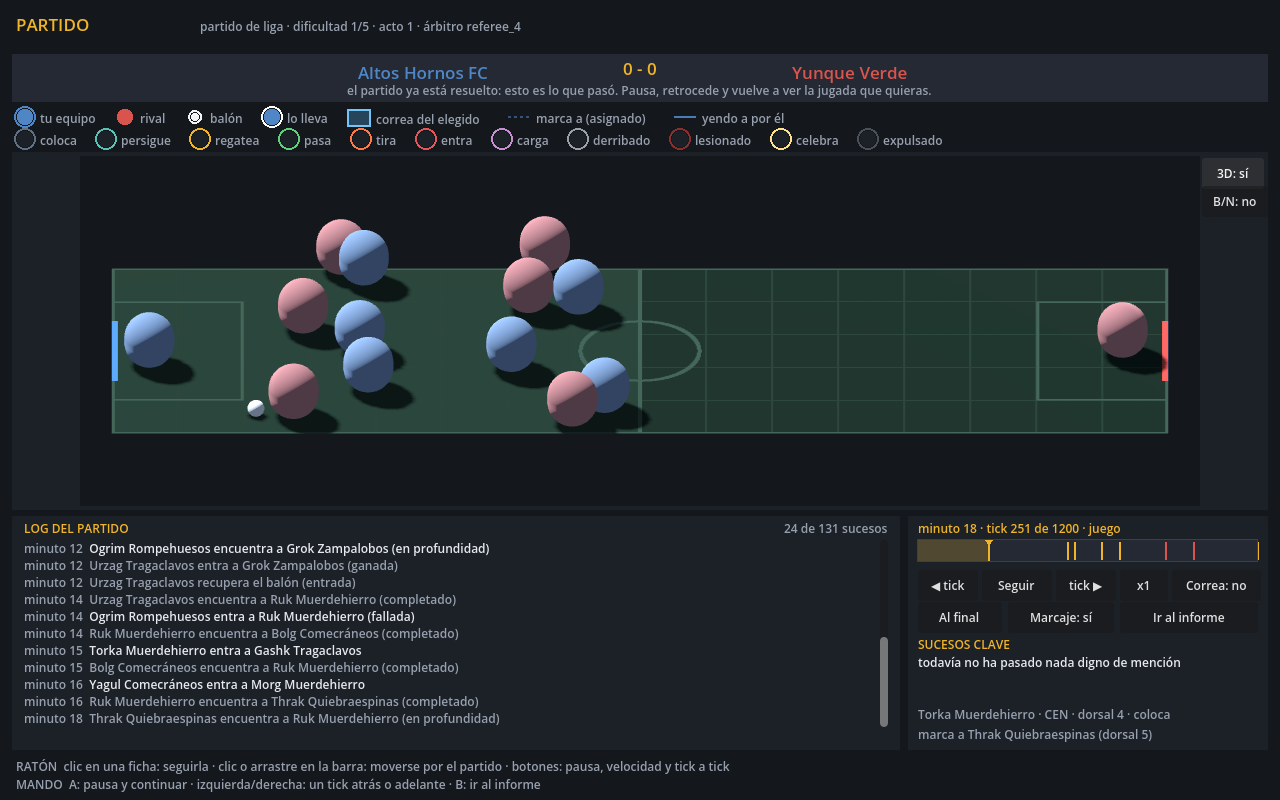
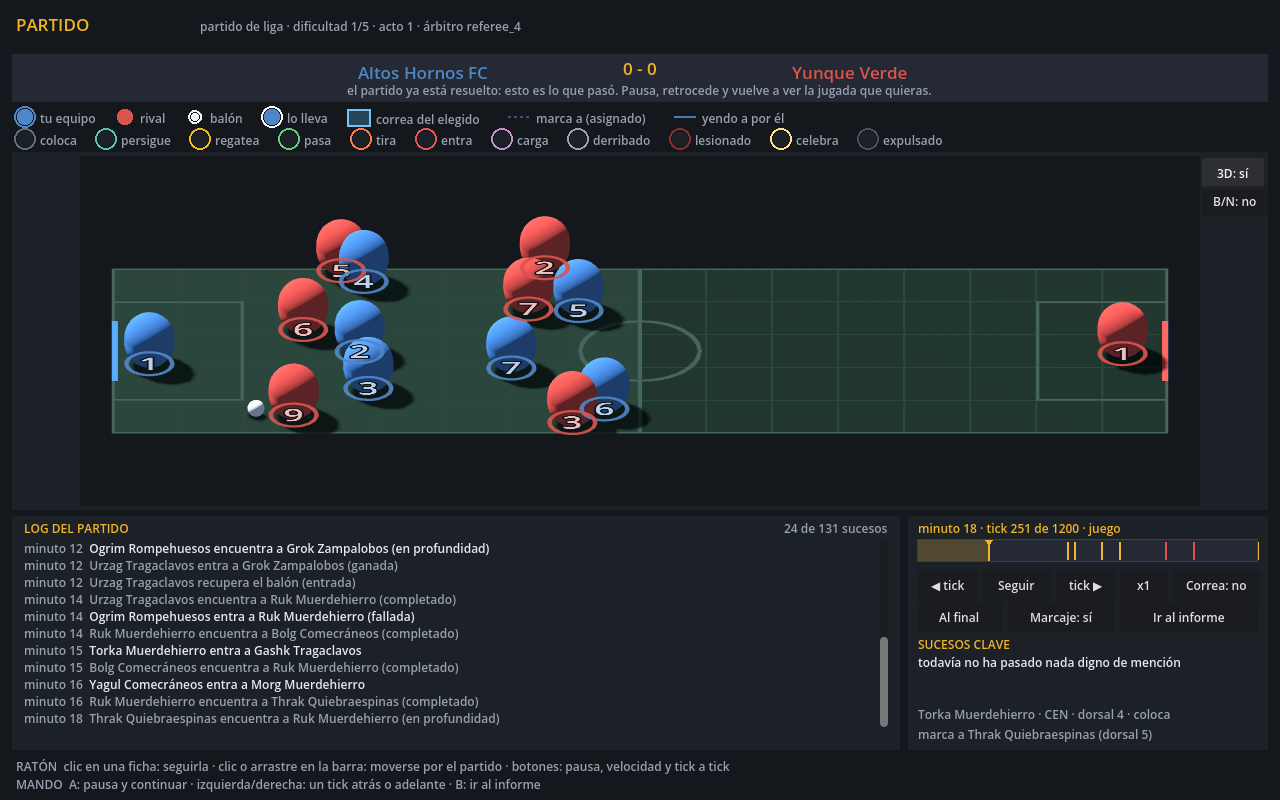
game: color de equipo y anillo con dorsal bajo la capsula — ADR 0102, RA-002, RA-008
Decision del revisor sobre la escena de cápsulas.

- La capsula lleva Style.TeamOwn / TeamRival enteros; antes se mezclaban con gris al
  42 % y salian lavados. Mismos colores que la ficha 2D y que la leyenda de la propia
  pantalla, para que las dos vistas convivan sin reaprender nada.
- Anillo en el suelo bajo cada capsula, del color del equipo y de radio bodyRadius/100:
  es la huella real que usa BodySeparation, no un adorno de tamano libre. Devuelve la
  identidad que se perdio al pasar de circulos numerados a capsulas anonimas, asi que
  el "dorsal 4" que nombra el log vuelve a poder seguirse.
- Anillo y dorsal van sin prueba de profundidad, y es un compromiso consciente: la
  capsula mide exactamente el radio del anillo, asi que desde tres cuartos lo taparia
  entero salvo una franja de 8,7 px y el dorsal seria ilegible siempre. El precio es
  que el anillo de quien esta detras se pinta sobre la capsula de quien esta delante.
  Con un modelo real -mas estrecho que un cilindro de radio completo- la bandera se
  quita. Comentado en el codigo.
- En modo silueta no se dibujan anillos ni dorsales: partido-3d-silueta.png y
  partido-3d-razas.png salen byte a byte identicos, asi que la prueba de RA-002 sigue
  siendo la misma.

Medido cifra a cifra en las tres capturas de angulo: el texto tumbado se comprime por
el SENO de la elevacion, no por el coseno, asi que el angulo malo para el dorsal es el
[…]

diff --git a/Game/Ui/MatchPitchView3D.cs b/Game/Ui/MatchPitchView3D.cs
@@ -80,8 +80,12 @@ public partial class MatchPitchView3D : SubViewportContainer
     private MeshInstance3D _ball = null!;
 
     private readonly List<MeshInstance3D> _bodies = new();
+    private readonly List<MeshInstance3D> _rings = new();
+    private readonly List<Label3D> _numbers = new();
     private readonly List<float> _heights = new();
     private readonly List<float> _radii = new();
+
+    private ArrayMesh? _ringMesh;
 
     private ImageTexture? _grassTexture;
     private ImageTexture? _whiteTexture;
@@ -152,7 +156,19 @@ public partial class MatchPitchView3D : SubViewportContainer
             body.QueueFree();
         }
 
+        foreach (var ring in _rings)
+        {
+            ring.QueueFree();
+        }
+
+        foreach (var number in _numbers)
+        {
+            number.QueueFree();
+        }
+
         _bodies.Clear();
+        _rings.Clear();
+        _numbers.Clear();
         _heights.Clear();
         _radii.Clear();
 
@@ -178,6 +194,18 @@ public partial class MatchPitchView3D : SubViewportContainer
             _bodies.Add(body);
             _heights.Add(height);
             _radii.Add(radius);
+
+            var ring = new MeshInstance3D
+            {
+                Mesh = _ringMesh,
+                MaterialOverride = RingMaterial(player.Team),
+                CastShadow = GeometryInstance3D.ShadowCastingSetting.Off,
+                Scale = new Vector3(radius, 1f, radius),
+            };
+            _world.AddChild(ring);
+            _rings.Add(ring);
+            _world.AddChild(NewNumber(player, radius, out var label));
+            _numbers.Add(label);
         }
 
         _appliedSilhouette = !SilhouetteMode;
@@ -201,6 +229,7 @@ public partial class MatchPitchView3D : SubViewportContainer
             float height = proportion.Height / proportion.Width * (radius * 2f);
 
             _bodies[i].Mesh = new CapsuleMesh { Radius = radius, Height = height, RadialSegments = 28, Rings = 12 };
+            _rings[i].Scale = new Vector3(radius, 1f, radius);
             _heights[i] = height;
             _radii[i] = radius;
         }
@@ -292,6 +321,8 @@ public partial class MatchPitchView3D : SubViewportContainer
         };
         _world.AddChild(_ground);
 
+        _ringMesh = BuildRingMesh();
+
         _ballMaterial = new StandardMaterial3D
         {
             Roughness = 0.4f,
@@ -353,6 +384,99 @@ public partial class MatchPitchView3D : SubViewportContainer
         var mesh = new ArrayMesh();
         mesh.AddSurfaceFromArrays(Mesh.PrimitiveType.Triangles, arrays);
         return mesh;
+    }
+
+    /// <summary>
+    /// La corona plana del anillo de suelo, de radio 1: se escala por jugador al radio de su cuerpo, así
+    /// que <b>el anillo es la huella real</b> que usa <c>BodySeparation</c> y no una decoración de tamaño
+    /// libre. Va en el plano XZ, sin espesor y sin proyectar sombra: lo que tiene que verse debajo es la
+    /// sombra de la cápsula (RA-008), no otra sombra más.
+    /// </summary>
+    private static ArrayMesh BuildRingMesh()
+    {
+        const int Steps = 48;
+        const float Inner = 0.82f;
+
+        var vertices = new Vector3[Steps * 2];
+        var normals = new Vector3[Steps * 2];
+        for (int i = 0; i < Steps; i++)
+        {
+            float angle = Mathf.Tau * i / Steps;
+            var direction = new Vector3(Mathf.Cos(angle), 0f, Mathf.Sin(angle));
+            vertices[i * 2] = direction * Inner;
+            vertices[(i * 2) + 1] = direction;
+            normals[i * 2] = Vector3.Up;
+            normals[(i * 2) + 1] = Vector3.Up;
+        }
+
+        var indices = new int[Steps * 6];
+        for (int i = 0; i < Steps; i++)
+        {
+            int a = i * 2;
+            int b = ((i + 1) % Steps) * 2;
+            indices[i * 6] = a;
+            indices[(i * 6) + 1] = a + 1;
+            indices[(i * 6) + 2] = b + 1;
+            indices[(i * 6) + 3] = a;
+            indices[(i * 6) + 4] = b + 1;
+            indices[(i * 6) + 5] = b;
+        }
+
+        var arrays = new Godot.Collections.Array();
+        arrays.Resize((int)Mesh.ArrayType.Max);
+        arrays[(int)Mesh.ArrayType.Vertex] = vertices;
+        arrays[(int)Mesh.ArrayType.Normal] = normals;
+        arrays[(int)Mesh.ArrayType.Index] = indices;
+
+        var mesh = new ArrayMesh();
+        mesh.AddSurfaceFromArrays(Mesh.PrimitiveType.Triangles, arrays);
+        return mesh;
+    }
+
+    /// <summary>
+    /// Anillo y dorsal van <b>sin prueba de profundidad</b>. No es un capricho: la cápsula tiene
+    /// exactamente el radio del anillo, así que desde tres cuartos se come todo el anillo menos una uña de
+    /// medio radio por delante, y el dorsal entero. Con un modelo de verdad —más estrecho que un cilindro
+    /// de radio completo, sobre todo por las piernas— el anillo se vería solo y esto se puede quitar. El
+    /// precio, mientras tanto: el anillo de quien está detrás se pinta encima de la cápsula de quien está
+    /// justo delante en la misma columna.
+    /// </summary>
+    private static StandardMaterial3D RingMaterial(int team) => new()
+    {
+        ShadingMode = BaseMaterial3D.ShadingModeEnum.Unshaded,
+        AlbedoColor = new Color(team == 0 ? Style.TeamOwn : Style.TeamRival, 0.92f),
+        Transparency = BaseMaterial3D.TransparencyEnum.Alpha,
+        CullMode = BaseMaterial3D.CullModeEnum.Disabled,
+        NoDepthTest = true,
+    };
+
+    /// <summary>
+    /// El dorsal tumbado en el suelo, dentro del anillo (<c>Label3D</c> girado -90° sobre X: su cara pasa a
+    /// mirar hacia arriba y su vertical hacia el fondo del campo, que es arriba en pantalla). Se dimensiona
+    /// contra el radio del cuerpo, no en píxeles, para que un no-muerto y un orco lo lleven proporcionado.
+    /// </summary>
+    private static Label3D NewNumber(TracePlayer player, float radius, out Label3D label)
+    {
+        const int FontPixels = 64;
+        var tint = (player.Team == 0 ? Style.TeamOwn : Style.TeamRival).Lightened(0.62f);
+
+        label = new Label3D
+        {
+            Text = player.Number.ToString(System.Globalization.CultureInfo.InvariantCulture),
+            FontSize = FontPixels,
+
+            // Alto del texto ~1,4 radios: dos cifras caben de sobra dentro del anillo (2 radios de diámetro)
+            // y siguen siendo legibles con la compresión vertical de los tres cuartos.
+            PixelSize = radius * 1.4f / FontPixels,
+            Modulate = tint,
+            OutlineSize = 14,
+            OutlineModulate = new Color(Style.Background, 0.95f),
+            Billboard = BaseMaterial3D.BillboardModeEnum.Disabled,
+            NoDepthTest = true,
+            DoubleSided = true,
+            RotationDegrees = new Vector3(-90f, 0f, 0f),
+        };
+        return label;
     }
 
     // ------------------------------------------------------------------ sincronización con el tick
@@ -427,10 +551,12 @@ public partial class MatchPitchView3D : SubViewportContainer
             };
         }
 
-        var grey = new Color(0.63f, 0.64f, 0.67f);
+        // El color de equipo va entero, el mismo que la leyenda y las fichas de la vista 2D: las dos
+        // vistas van a convivir y el jugador no puede tener que traducir de una paleta a otra. El gris de
+        // «cápsulas grises» se lo queda la luz, que es la que da el volumen.
         return new StandardMaterial3D
         {
-            AlbedoColor = grey.Lerp(team == 0 ? Style.TeamOwn : Style.TeamRival, 0.42f),
+            AlbedoColor = team == 0 ? Style.TeamOwn : Style.TeamRival,
             Roughness = 0.85f,
             Metallic = 0f,
             SpecularMode = BaseMaterial3D.SpecularModeEnum.Disabled,
@@ -458,11 +584,23 @@ public partial class MatchPitchView3D : SubViewportContainer
             if (!trace.OnPitchAt(frame, i))
             {
                 body.Visible = false;
+                _rings[i].Visible = false;
+                _numbers[i].Visible = false;
                 continue;
             }
 
             body.Visible = true;
             var at = Interpolate(trace, frame, i);
+
+            // En silueta no hay anillo ni dorsal: esa vista existe para comprobar RA-002 en blanco y negro
+            // y cualquier cosa que se le añada deja de ser la prueba que es.
+            _rings[i].Visible = !SilhouetteMode;
+            _numbers[i].Visible = !SilhouetteMode;
+
+            // Dos alturas distintas y mínimas: el anillo pegado al césped y el dorsal un pelo por encima,
+            // para que no peleen entre sí por el mismo plano.
+            _rings[i].Position = new Vector3(at.X, 0.012f, at.Y);
+            _numbers[i].Position = new Vector3(at.X, 0.024f, at.Y);
 
             // Quien está fuera de la jugada (derribado, lesionado, expulsado) se tumba: con veinte cápsulas
             // grises la postura es lo único que dice de un vistazo quién sigue jugando (UI-002 en 3D).
